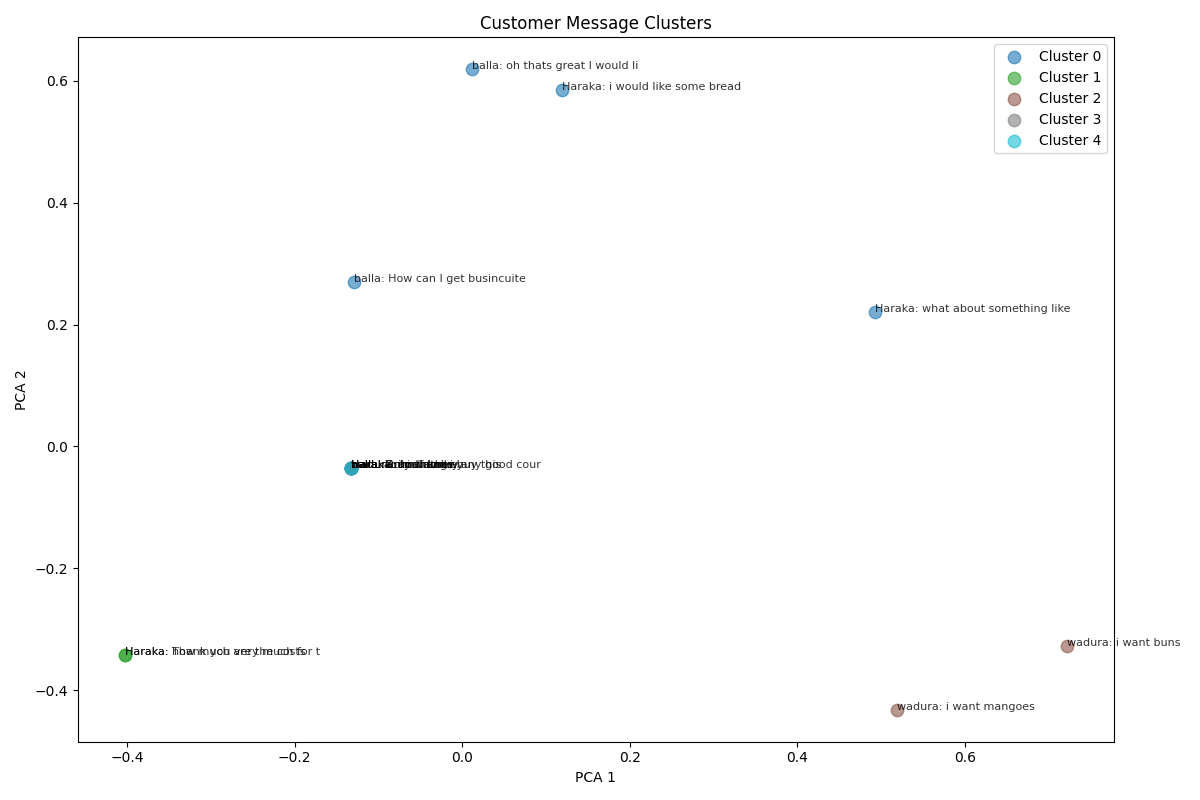
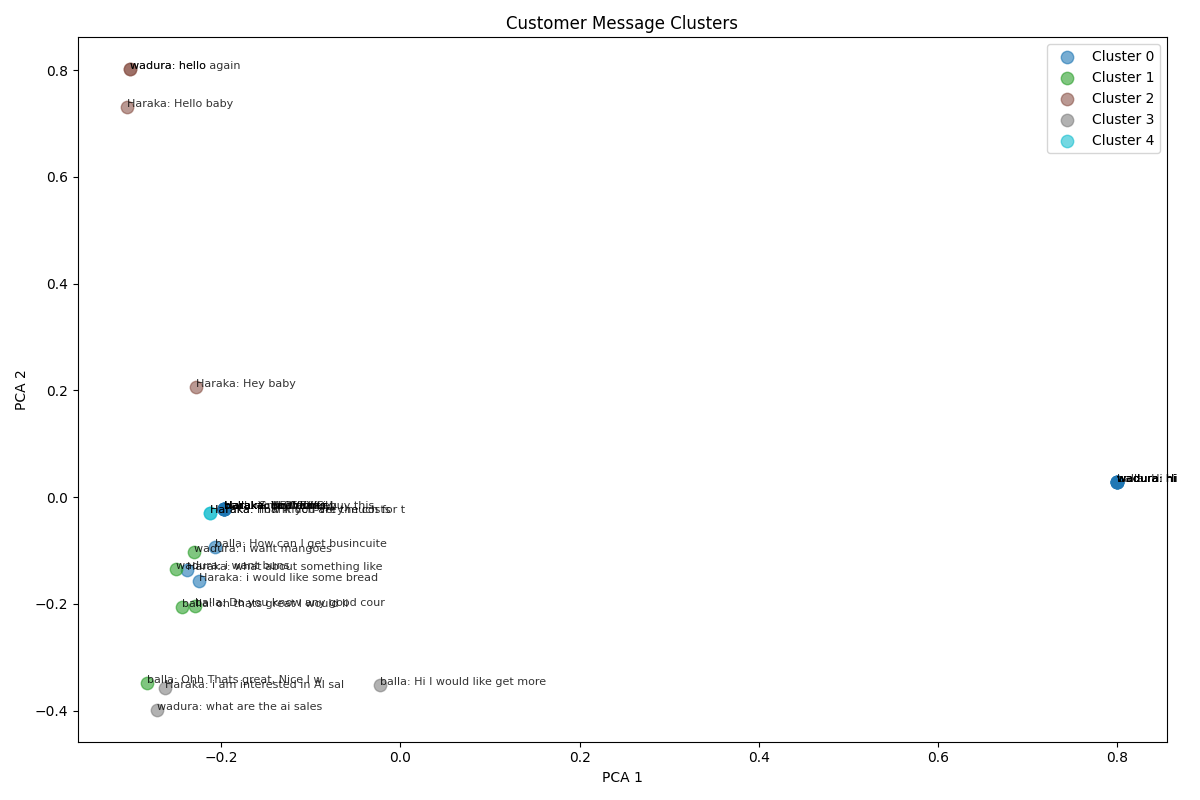
Update Globall 11

diff --git a/API Files/Master/templates/dashboard.html b/API Files/Master/templates/dashboard.html
@@ -7,10 +7,113 @@
 <body>
     {% extends "base.html" %}
     {% block content %}
-    <div class="container">
-        <h2>Welcome, {{ name }}!</h2>
-        <p>This is your secure dashboard.</p>
+    <div class="dashboard-main" style="display:flex; gap:32px; align-items:flex-start; justify-content:center; background:#f7f7fa; min-height:90vh; padding:32px 0;">
+      <!-- Left: Main Analytics -->
+      <div style="flex:2; min-width:340px;">
+        <div class="dashboard-cards" style="display:flex; gap:24px; flex-wrap:wrap; margin-bottom:32px;">
+          <!-- Overview Card (Chart Placeholder) -->
+          <div class="dashboard-card" style="flex:2; min-width:340px; background:linear-gradient(135deg,#7b5cff 60%,#fadc07 100%); border-radius:18px; color:#fff; padding:32px 28px; box-shadow:0 2px 16px #7b5cff30; position:relative;">
+            <h3 style="font-size:1.2rem; font-weight:700; margin-bottom:12px;">Overview</h3>
+            <canvas id="overviewChart" width="400" height="120"></canvas>
+            <div style="display:flex; justify-content:space-between; margin-top:18px;">
+              <div>
+                <div style="font-size:2.1rem; font-weight:700;">{{ total_sales or 0 }}</div>
+                <div style="font-size:1rem; opacity:0.8;">Total Sales</div>
+              </div>
+              <div>
+                <div style="font-size:2.1rem; font-weight:700;">{{ total_leads or 0 }}</div>
+                <div style="font-size:1rem; opacity:0.8;">Total Leads</div>
+              </div>
+              <div>
+                <div style="font-size:2.1rem; font-weight:700;">{{ total_campaigns or 0 }}</div>
+                <div style="font-size:1rem; opacity:0.8;">Campaigns</div>
+              </div>
+            </div>
+          </div>
+          <!-- Quick Links -->
+          <a href="{{ url_for('campaign') }}" class="dashboard-card" style="flex:1; min-width:180px; background:#fff; border-radius:18px; color:#7b5cff; padding:24px 18px; box-shadow:0 2px 12px #7b5cff10; text-align:center; font-weight:600; text-decoration:none;">
+            <div style="font-size:2.2rem; margin-bottom:8px;">📢</div>
+            Campaigns
+          </a>
+          <a href="{{ url_for('leads') }}" class="dashboard-card" style="flex:1; min-width:180px; background:#fff; border-radius:18px; color:#fadc07; padding:24px 18px; box-shadow:0 2px 12px #fadc0710; text-align:center; font-weight:600; text-decoration:none;">
+            <div style="font-size:2.2rem; margin-bottom:8px;">🧑💼</div>
+            Leads
+          </a>
+          <a href="{{ url_for('sales') }}" class="dashboard-card" style="flex:1; min-width:180px; background:#fff; border-radius:18px; color:#7b5cff; padding:24px 18px; box-shadow:0 2px 12px #7b5cff10; text-align:center; font-weight:600; text-decoration:none;">
+            <div style="font-size:2.2rem; margin-bottom:8px;">📈</div>
+            Sales
+          </a>
+          <a href="{{ url_for('customer_upload') }}" class="dashboard-card" style="flex:1; min-width:180px; background:#fff; border-radius:18px; color:#fadc07; padding:24px 18px; box-shadow:0 2px 12px #fadc0710; text-align:center; font-weight:600; text-decoration:none;">
+            <div style="font-size:2.2rem; margin-bottom:8px;">📤</div>
+            Customer Uploads
+          </a>
+        </div>
+        <!-- Analytics Cards -->
+        <div style="display:flex; gap:24px; flex-wrap:wrap; margin-bottom:32px;">
+          <div class="dashboard-card" style="flex:1; min-width:220px; background:#fff; border-radius:18px; color:#222; padding:24px 18px; box-shadow:0 2px 12px #7b5cff10;">
+            <div style="font-size:1.1rem; font-weight:600; margin-bottom:8px;">Recent Upload</div>
+            <div style="font-size:1.6rem; font-weight:700;">{{ recent_upload.filename if recent_upload else 'None' }}</div>
+            <div style="font-size:0.98rem; opacity:0.7;">Rows: {{ recent_upload.rows if recent_upload else 0 }}</div>
+          </div>
+          <div class="dashboard-card" style="flex:1; min-width:220px; background:#fff; border-radius:18px; color:#222; padding:24px 18px; box-shadow:0 2px 12px #fadc0710;">
+            <div style="font-size:1.1rem; font-weight:600; margin-bottom:8px;">Top Campaign</div>
+            <div style="font-size:1.6rem; font-weight:700;">{{ top_campaign.name if top_campaign else 'N/A' }}</div>
+            <div style="font-size:0.98rem; opacity:0.7;">Leads: {{ top_campaign.leads if top_campaign else 0 }}</div>
+          </div>
+          <div class="dashboard-card" style="flex:1; min-width:220px; background:#fff; border-radius:18px; color:#222; padding:24px 18px; box-shadow:0 2px 12px #7b5cff10;">
+            <div style="font-size:1.1rem; font-weight:600; margin-bottom:8px;">Recent Sale</div>
+            <div style="font-size:1.6rem; font-weight:700;">{{ recent_sale.amount if recent_sale else 'N/A' }}</div>
+            <div style="font-size:0.98rem; opacity:0.7;">Customer: {{ recent_sale.customer if recent_sale else 'N/A' }}</div>
+          </div>
+        </div>
+      </div>
+      <!-- Right: Sidebar (optional, for team/friends/quick stats) -->
+      <div class="dashboard-sidebar" style="flex:1; min-width:260px; background:#fff; border-radius:18px; box-shadow:0 2px 12px #7b5cff10; padding:32px 18px;">
+        <h3 style="font-size:1.1rem; font-weight:700; color:#7b5cff; margin-bottom:18px;">Quick Stats</h3>
+        <div style="margin-bottom:18px;">
+          <div style="font-size:1.05rem; margin-bottom:6px;">Total Customers: <b>{{ total_customers or 0 }}</b></div>
+          <div style="font-size:1.05rem; margin-bottom:6px;">CSV Uploads: <b>{{ total_uploads or 0 }}</b></div>
+          <div style="font-size:1.05rem; margin-bottom:6px;">Active Campaigns: <b>{{ active_campaigns or 0 }}</b></div>
+        </div>
+        <h3 style="font-size:1.1rem; font-weight:700; color:#fadc07; margin-bottom:12px;">Navigation</h3>
+        <ul style="list-style:none; padding:0; margin:0;">
+          <li style="margin-bottom:10px;"><a href="{{ url_for('dashboard') }}" style="color:#7b5cff;">Dashboard</a></li>
+          <li style="margin-bottom:10px;"><a href="{{ url_for('campaign') }}" style="color:#7b5cff;">Campaigns</a></li>
+          <li style="margin-bottom:10px;"><a href="{{ url_for('leads') }}" style="color:#fadc07;">Leads</a></li>
+          <li style="margin-bottom:10px;"><a href="{{ url_for('sales') }}" style="color:#7b5cff;">Sales</a></li>
+          <li style="margin-bottom:10px;"><a href="{{ url_for('customer_upload') }}" style="color:#fadc07;">Customer Uploads</a></li>
+        </ul>
+      </div>
     </div>
+    <!-- Chart.js for Overview Chart -->
+    <script src="https://cdn.jsdelivr.net/npm/chart.js"></script>
+    <script>
+    const ctx = document.getElementById('overviewChart').getContext('2d');
+    const overviewChart = new Chart(ctx, {
+        type: 'line',
+        data: {
+            labels: {{ chart_labels|tojson }},
+            datasets: [{
+                label: 'Sales',
+                data: {{ chart_data|tojson }},
+                backgroundColor: 'rgba(123,92,255,0.15)',
+                borderColor: '#7b5cff',
+                borderWidth: 3,
+                pointBackgroundColor: '#fadc07',
+                pointRadius: 6,
+                fill: true,
+                tension: 0.4
+            }]
+        },
+        options: {
+            plugins: { legend: { display: false } },
+            scales: {
+                x: { grid: { display: false } },
+                y: { grid: { color: '#eee' }, beginAtZero: true }
+            }
+        }
+    });
+    </script>
     {% endblock %}
 </body>
 </html>

diff --git a/API Files/Master/templates/profile.html b/API Files/Master/templates/profile.html
@@ -3,19 +3,18 @@
 <div class="profile-container" style="display:flex; justify-content:center; align-items:center; min-height:70vh;">
   <div class="profile-card" style="background:#fff; border-radius:18px; box-shadow:0 2px 16px #fadc0740; padding:48px 36px; max-width:420px; width:100%; text-align:center;">
     <img src="{{ profile_pic_url }}" alt="Profile Picture" class="profile-pic-large" style="width:110px; height:110px; border-radius:50%; border:4px solid #FADC07; object-fit:cover; margin-bottom:18px;">
-    <h2 style="color:#222; margin-bottom:6px;">{{ customer.fName if customer else session.get('name', 'User') }}</h2>
+    <h2 style="color:#222; margin-bottom:6px;">{{ business.name if business else session.get('name', 'User') }}</h2>
     <p class="profile-role" style="color:#FADC07; font-weight:600; margin-bottom:18px;">Business User</p>
     <div class="profile-details" style="text-align:left; margin:0 auto 18px; max-width:320px;">
-      <p style="margin-bottom:10px;"><strong>Email:</strong> {{ customer.email if customer and customer.email else 'N/A' }}</p>
-      <p style="margin-bottom:10px;"><strong>Contact:</strong> {{ customer.mobileNo if customer and customer.mobileNo else 'N/A' }}</p>
-      <p style="margin-bottom:10px;"><strong>Business Type:</strong> {{ customer.type if customer and customer.type else 'N/A' }}</p>
+      <p style="margin-bottom:10px;"><strong>Phone Number:</strong> {{ business.contact if business and business.contact else 'N/A' }}</p>
+      <p style="margin-bottom:10px;"><strong>Business:</strong> {{ business.type if business and business.type else 'N/A' }}</p>
+      <p style="margin-bottom:10px;"><strong>Email:</strong> {{ business.email if business and business.email else 'N/A' }}</p>
     </div>
-    <form method="POST" enctype="multipart/form-data" style="margin-bottom:18px;">
+    <form method="POST" enctype="multipart/form-data" style="margin-bottom:0; text-align:left; max-width:320px; margin:0 auto;">
       <label for="profile_pic" style="display:block; margin-bottom:8px; color:#222;">Change Profile Picture</label>
       <input type="file" name="profile_pic" id="profile_pic" accept="image/*" style="margin-bottom:12px;">
       <button type="submit" class="button-link wide-btn" style="margin-bottom:0;">Upload</button>
     </form>
-    <a href="{{ url_for('logout') }}" class="button-link wide-btn" style="background:#FADC07; color:#222;">Logout</a>
   </div>
 </div>
 {% endblock %}

diff --git a/API Files/Master/app.py b/API Files/Master/app.py
@@ -108,17 +108,123 @@ def dashboard():
         # Get businessId for the logged-in user
         cur.execute("SELECT businessId FROM business WHERE name=%s", (session['name'],))
         business_id_row = cur.fetchone()
-        campaigns = []
-        if business_id_row:
-            business_id = business_id_row[0]
-            # Fetch all campaigns for this business
-            cur.execute("SELECT * FROM campaign WHERE businessId=%s ORDER BY campaignId DESC", (business_id,))
-            columns = [desc[0] for desc in cur.description]
-            for row in cur.fetchall():
-                campaigns.append(dict(zip(columns, row)))
-        cur.close()  # <-- Fix: close the cursor, not the connection
+        business_id = business_id_row[0] if business_id_row else None
+
+        # Default values for all analytics
+        total_sales = 0
+        total_leads = 0
+        total_campaigns = 0
+        total_customers = 0
+        total_uploads = 0
+        active_campaigns = 0
+        recent_upload = None
+        top_campaign = None
+        recent_sale = None
+        chart_labels = []
+        chart_data = []
+
+        if business_id:
+            # Total campaigns
+            cur.execute("SELECT COUNT(*) FROM campaign WHERE businessId=%s", (business_id,))
+            total_campaigns = cur.fetchone()[0] or 0
+
+            # Total leads (messages from customers)
+            cur.execute("SELECT COUNT(*) FROM chatlog WHERE businessId=%s", (business_id,))
+            total_leads = cur.fetchone()[0] or 0
+
+            # Total sales (simulate as number of unique customers with a sale, or sum of sales table if exists)
+            try:
+                cur.execute("SELECT COUNT(DISTINCT customerId) FROM chatlog WHERE businessId=%s AND LLM_msg LIKE '%purchase%'", (business_id,))
+                total_sales = cur.fetchone()[0] or 0
+            except:
+                total_sales = 0
+
+            # Total customers (count distinct customers linked to this business via campaign)
+            cur.execute("""
+                SELECT COUNT(DISTINCT cu.customerId)
+                FROM customer cu
+                JOIN campaign ca ON cu.campaignId = ca.campaignId
+                WHERE ca.businessId=%s
+            """, (business_id,))
+            total_customers = cur.fetchone()[0] or 0
+
+            # Total uploads (CSV files in CustomerUpload/)
+            upload_dir = os.path.join(os.path.dirname(__file__), 'CustomerUpload')
+            if os.path.exists(upload_dir):
+                files = [f for f in os.listdir(upload_dir) if f.endswith('.csv')]
+                total_uploads = len(files)
+                # Recent upload
+                if files:
+                    latest_file = max(files, key=lambda f: os.path.getctime(os.path.join(upload_dir, f)))
+                    with open(os.path.join(upload_dir, latest_file), 'r', encoding='utf-8', errors='ignore') as f:
+                        row_count = sum(1 for _ in f) - 1  # minus header
+                    recent_upload = {'filename': latest_file, 'rows': row_count}
+            else:
+                total_uploads = 0
+                recent_upload = None
+
+            # Active campaigns (simulate as campaigns created in last 30 days)
+            cur.execute("SELECT COUNT(*) FROM campaign WHERE businessId=%s AND created_at >= NOW() - INTERVAL 30 DAY", (business_id,))
+            active_campaigns = cur.fetchone()[0] or 0
+
+            # Top campaign (by number of leads)
+            cur.execute("""
+                SELECT c.campaignName, COUNT(ch.msgId) as leads
+                FROM campaign c LEFT JOIN chatlog ch ON c.campaignId = ch.CampaignId
+                WHERE c.businessId=%s
+                GROUP BY c.campaignId
+                ORDER BY leads DESC LIMIT 1
+            """, (business_id,))
+            row = cur.fetchone()
+            if row:
+                top_campaign = {'name': row[0], 'leads': row[1]}
+
+            # Recent sale (simulate as latest chatlog with 'purchase' in LLM_msg)
+            cur.execute("""
+                SELECT ch.LLM_msg, cu.fName FROM chatlog ch
+                LEFT JOIN customer cu ON ch.customerId = cu.customerId
+                WHERE ch.businessId=%s AND ch.LLM_msg LIKE '%purchase%'
+                ORDER BY ch.timestamp DESC LIMIT 1
+            """, (business_id,))
+            row = cur.fetchone()
+            if row:
+                recent_sale = {'amount': 'Success', 'customer': row[1] or 'Unknown'}
+
+            # Chart data: sales per campaign (or per month)
+            cur.execute("""
+                SELECT DATE_FORMAT(ch.timestamp, '%b %Y') as month, COUNT(*) as sales
+                FROM chatlog ch
+                WHERE ch.businessId=%s AND ch.LLM_msg LIKE '%purchase%'
+                GROUP BY month
+                ORDER BY MIN(ch.timestamp) ASC
+            """, (business_id,))
+            chart_rows = cur.fetchall()
+            chart_labels = [row[0] for row in chart_rows] if chart_rows else []
+            chart_data = [row[1] for row in chart_rows] if chart_rows else []
+
+        # Always return lists for chart_labels and chart_data
+        if not chart_labels:
+            chart_labels = ["No Data"]
+        if not chart_data:
+            chart_data = [0]
+
+        cur.close()
         conn.close()
-        return render_template('dashboard.html', name=session['name'], campaigns=campaigns)
+        return render_template(
+            'dashboard.html',
+            name=session['name'],
+            total_sales=total_sales,
+            total_leads=total_leads,
+            total_campaigns=total_campaigns,
+            recent_upload=recent_upload,
+            top_campaign=top_campaign,
+            recent_sale=recent_sale,
+            total_customers=total_customers,
+            total_uploads=total_uploads,
+            active_campaigns=active_campaigns,
+            chart_labels=chart_labels,
+            chart_data=chart_data
+        )
     else:
         return redirect(url_for('login'))
 
@@ -314,7 +420,13 @@ def process_customer_upload():
             file_path = max(files, key=os.path.getctime)
     if file_path and campaign_id:
         ml_read_file.readData.campaignId = int(campaign_id)
-        ml_read_file.readData(file_path)
+        # Get businessId for the campaign
+        conn, cur = get_db_connection()
+        cur.execute("SELECT businessId FROM campaign WHERE campaignId=%s", (campaign_id,))
+        business_id_row = cur.fetchone()
+        business_id = business_id_row[0] if business_id_row else None
+        conn.close()
+        ml_read_file.readData(file_path, businessId=business_id)
         send_template_to_all(int(campaign_id))  # Automatically send outbound messages after upload
         return render_template('success.html')
     return "Missing file path or campaign ID."
@@ -325,18 +437,15 @@ def profile():
     if 'name' not in session:
         return redirect(url_for('login'))
     conn, cur = get_db_connection()
-    # Fetch businessId for the logged-in user
-    cur.execute("SELECT businessId FROM business WHERE name=%s", (session['name'],))
-    business_id_row = cur.fetchone()
-    business_id = business_id_row[0] if business_id_row else None
-    # Fetch customer row for this business (assuming 1:1 business-customer for profile)
-    cur.execute("SELECT * FROM customer WHERE campaignId IN (SELECT campaignId FROM campaign WHERE businessId=%s) ORDER BY customerId DESC LIMIT 1", (business_id,))
-    customer = cur.fetchone()
+    # Fetch business row for the logged-in user
+    cur.execute("SELECT * FROM business WHERE name=%s", (session['name'],))
+    business = cur.fetchone()
     columns = [desc[0] for desc in cur.description]
-    customer_dict = dict(zip(columns, customer)) if customer else None
+    business_dict = dict(zip(columns, business)) if business else None
+    print('DEBUG: business_dict =', business_dict)  # Debug print
     profile_pic_url = url_for('static', filename='profile.png')
-    if customer_dict and customer_dict.get('profile_pic'):
-        profile_pic_url = url_for('static', filename='profile_pics/' + customer_dict['profile_pic'])
+    if business_dict and business_dict.get('profile_pic'):
+        profile_pic_url = url_for('static', filename='profile_pics/' + business_dict['profile_pic'])
     if request.method == 'POST':
         file = request.files.get('profile_pic')
         if file and file.filename:
@@ -345,12 +454,15 @@ def profile():
             if not os.path.exists(pic_folder):
                 os.makedirs(pic_folder)
             file.save(os.path.join(pic_folder, filename))
-            # Save filename in DB
-            cur.execute("UPDATE customer SET profile_pic=%s WHERE customerId=%s", (filename, customer_dict['customerId']))
+            cur.execute("UPDATE business SET profile_pic=%s WHERE businessId=%s", (filename, business_dict['businessId']))
             conn.commit()
             profile_pic_url = url_for('static', filename='profile_pics/' + filename)
+        # Refresh business_dict after update
+        cur.execute("SELECT * FROM business WHERE name=%s", (session['name'],))
+        business = cur.fetchone()
+        business_dict = dict(zip(columns, business)) if business else None
     conn.close()
-    return render_template('profile.html', profile_pic_url=profile_pic_url, customer=customer_dict)
+    return render_template('profile.html', profile_pic_url=profile_pic_url, business=business_dict)
 
 @app.route('/campaign')
 def campaign():

diff --git a/API Files/Master/File Reader/File Reader with ML/customer_table.py b/API Files/Master/File Reader/File Reader with ML/customer_table.py
@@ -12,7 +12,7 @@ connection = connect_db_local.connection
 
 connect, cursor = connection()
 
-def addRow(mobileNo, fName, lName, email, campaignId=None):
+def addRow(mobileNo, fName, lName, email, campaignId=None, businessId=None):
     '''function which can be used to add rows
     to the customer data table in the database'''
     customerId = 0
@@ -21,9 +21,15 @@ def addRow(mobileNo, fName, lName, email, campaignId=None):
         print("Database connection not available.")
         return
     try:
-        if campaignId is not None:
+        if campaignId is not None and businessId is not None:
+            cursor.execute('INSERT INTO customer (mobileNo, fName, lName, email, campaignId, businessId, pastConversation) VALUES (%s, %s, %s, %s, %s, %s, %s)',
+                        (mobileNo, fName, lName, email, campaignId, businessId, pastConversation))
+        elif campaignId is not None:
             cursor.execute('INSERT INTO customer (mobileNo, fName, lName, email, campaignId, pastConversation) VALUES (%s, %s, %s, %s, %s, %s)',
                         (mobileNo, fName, lName, email, campaignId, pastConversation))
+        elif businessId is not None:
+            cursor.execute('INSERT INTO customer (mobileNo, fName, lName, email, businessId, pastConversation) VALUES (%s, %s, %s, %s, %s, %s)',
+                        (mobileNo, fName, lName, email, businessId, pastConversation))
         else:
             cursor.execute('INSERT INTO customer (mobileNo, fName, lName, email, pastConversation) VALUES (%s, %s, %s, %s, %s)',
                         (mobileNo, fName, lName, email, pastConversation))

diff --git a/API Files/Master/File Reader/File Reader with ML/read_file.py b/API Files/Master/File Reader/File Reader with ML/read_file.py
@@ -3,7 +3,7 @@ import customer_table
 import pathlib
 from machine_model import identify
 
-def readData(file):
+def readData(file, businessId=None):
     '''Reads the entirety of the imported CSV file.
     sends data to the database as well'''
     # initialize data holder dictionary / variables
@@ -93,6 +93,6 @@ def readData(file):
             mobFixList.insert(0, '0')
             oneInstance['mobileNo'] = ''.join(map(str, mobFixList))
         #print(oneInstance)
-        customer_table.addRow(oneInstance['mobileNo'], oneInstance['fName'], oneInstance['lName'], oneInstance['email'], campaignId)
+        customer_table.addRow(oneInstance['mobileNo'], oneInstance['fName'], oneInstance['lName'], oneInstance['email'], campaignId, businessId)
 
 #readData('C:\\Users\\Devpriya\\Documents\\Extra\\readExcel.xlsx')